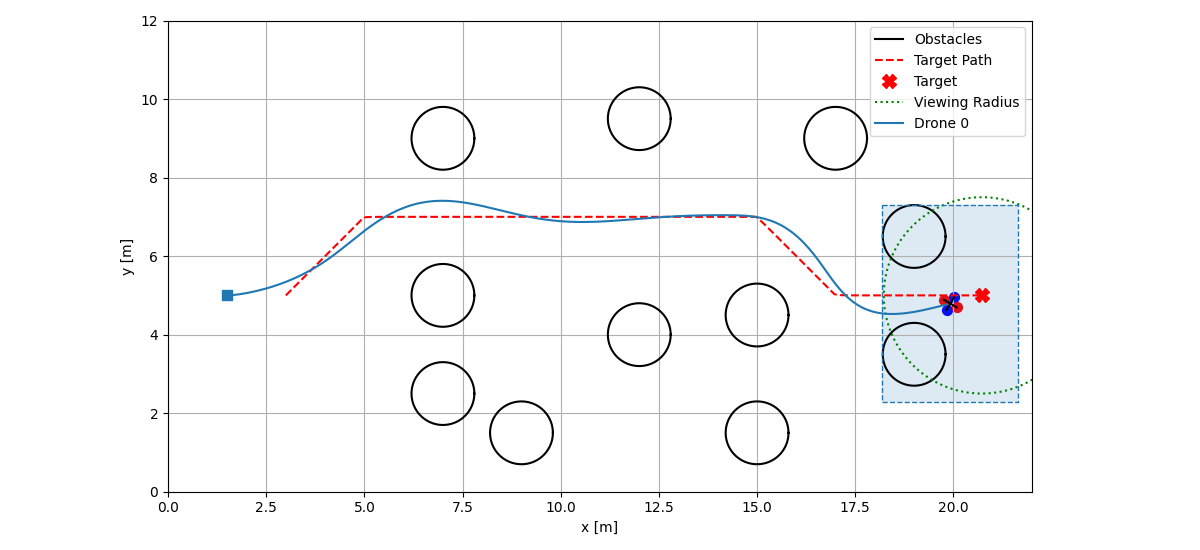
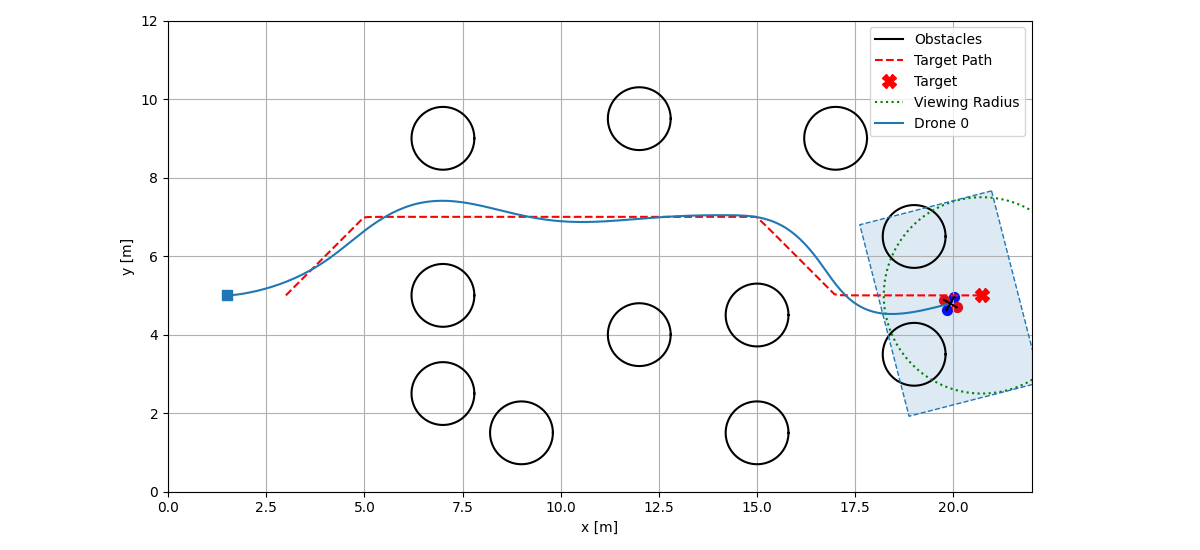
modify

Changed region(s): [[0.7092, 0.5564, 0.8633, 0.7727], [0.7092, 0.34, 0.8633, 0.5564]]

diff --git a/fov.py b/fov.py
@@ -1,48 +1,72 @@
 import numpy as np
-def calculate_fov_corners(state, hfov, vfov):
+
+def calculate_fov_corners(state, hfov, vfov, prev_yaw=0.0):
     """
-    Calculate the corners of the field of view (FOV) based on the robot's state and FOV parameters.
+    Calculate the corners of the Field of View (FOV) for a robot based on its state.
     """
-    x, y, height = state[:3]
+    position = state[:3]  
+    velocity_2d = state[3:5] #
+
+    x, y, height = position
+    vx, vy = velocity_2d
+    
+    if np.linalg.norm(velocity_2d) > 1e-5:
+        yaw = np.arctan2(vy, vx)
+    else:
+        yaw = prev_yaw
     hfov_rad = np.deg2rad(hfov)
     vfov_rad = np.deg2rad(vfov)
 
     width_half = height * np.tan(hfov_rad / 2.0)
     length_half = height * np.tan(vfov_rad / 2.0)
 
-    top_left = np.array([x - width_half, y + length_half])
-    top_right = np.array([x + width_half, y + length_half])
-    bottom_right = np.array([x + width_half, y - length_half])
-    bottom_left = np.array([x - width_half, y - length_half])
-
-    fov_corners = np.array([
-    top_left,
-    top_right,
-    bottom_right,
-    bottom_left,
-    top_left
+    local_corners = np.array([
+        [+length_half, +width_half],  
+        [+length_half, -width_half],  
+        [-length_half, -width_half],  
+        [-length_half, +width_half] 
     ])
 
-    return fov_corners, width_half *2, length_half *2
+    c, s = np.cos(yaw), np.sin(yaw)
+    rotation_matrix = np.array([[c, -s], [s,  c]])
+    rotated_corners = local_corners @ rotation_matrix.T
+    world_corners = rotated_corners + np.array([x, y])
+    fov_corners_to_plot = np.vstack([world_corners, world_corners[0]])
+
+    return fov_corners_to_plot, width_half * 2, length_half * 2, yaw
 
 
 if __name__ == '__main__':
-    test_robot_state = np.array([5, 5, 3])
-    HFOV = 60.0
-    VFOV = 80.0
+    test_robot_state = np.array([5, 5, 3, 1.0, 1.0, 0.0]) 
 
-    corners, width, length = calculate_fov_corners(test_robot_state, HFOV, VFOV)
+    HFOV = 80.0
+    VFOV = 60.0
+    
+    previous_yaw = 0.0
+
+    corners, width, length, calculated_yaw = calculate_fov_corners(
+        test_robot_state, 
+        HFOV, VFOV,
+        prev_yaw=previous_yaw
+    )
 
     if corners is not None:
-        print(corners, "Width:", width, "Length:", length)
+        
         import matplotlib.pyplot as plt
         
-        plt.figure()
-        plt.plot(corners[:, 0], corners[:, 1], 'r-') # Vẽ đa giác FOV
-        plt.scatter(test_robot_state[0], test_robot_state[1], c='b', marker='o')
-        plt.xlabel("X")
-        plt.ylabel("Y")
-        plt.grid(True)
-        plt.axis('equal')
-        plt.legend()
-        plt.show()
+        plt.figure(figsize=(8, 8))
+        plt.plot(corners[:, 0], corners[:, 1], 'r-', label="FOV")
+        plt.fill(corners[:-1, 0], corners[:-1, 1], 'r', alpha=0.2)
+        
+        plt.scatter(test_robot_state[0], test_robot_state[1], c='b', marker='o', s=100, label="Robot Position")
+
+        arrow_length = 1.0
+        plt.arrow(
+            test_robot_state[0], test_robot_state[1], 
+            arrow_length * np.cos(calculated_yaw), arrow_length * np.sin(calculated_yaw), 
+            head_width=0.2, head_length=0.3, fc='b', ec='b'
+        )
+
+        plt.xlabel("X"); plt.ylabel("Y")
+        plt.title("FOV with Yaw derived from 6D State")
+        plt.grid(True); plt.axis('equal'); plt.legend(); plt.show()

diff --git a/animation.py b/animation.py
@@ -154,8 +154,8 @@ for iter in range(length):
         
 
         # Plot FOV
-        robot_current_state = [path[iter, 1:][0],path[iter, 1:][1],3.0]
-        fov_corners,_,_ = calculate_fov_corners(robot_current_state, HFOV, VFOV)
+        robot_current_state = [path[iter, 1:][0],path[iter, 1:][1],3.0,path[iter, 1:][3],path[iter, 1:][4]]
+        fov_corners,_,_,_ = calculate_fov_corners(robot_current_state, HFOV, VFOV,prev_yaw=0.0)
         if fov_corners is not None:
             ax.fill(fov_corners[:, 0], fov_corners[:, 1], alpha=0.15, fc=robot_color, ec='none')
             ax.plot(fov_corners[:, 0], fov_corners[:, 1], linestyle='--', color=robot_color, linewidth=1)

diff --git a/config.py b/config.py
@@ -229,8 +229,8 @@ elif SCENARIO == 5:
     DESIRED_SEPARATION = 1.5   # desired distance between robots
     
     # Parameters of FOV
-    HFOV = 60.0             # Horizontal field of view
-    VFOV = 80.0             # Vertical field of view
+    HFOV = 80.0             # Horizontal field of view
+    VFOV = 60.0             # Vertical field of view
     # Weights for MPC
     W_tra = 3
     W_u = 4e-1
